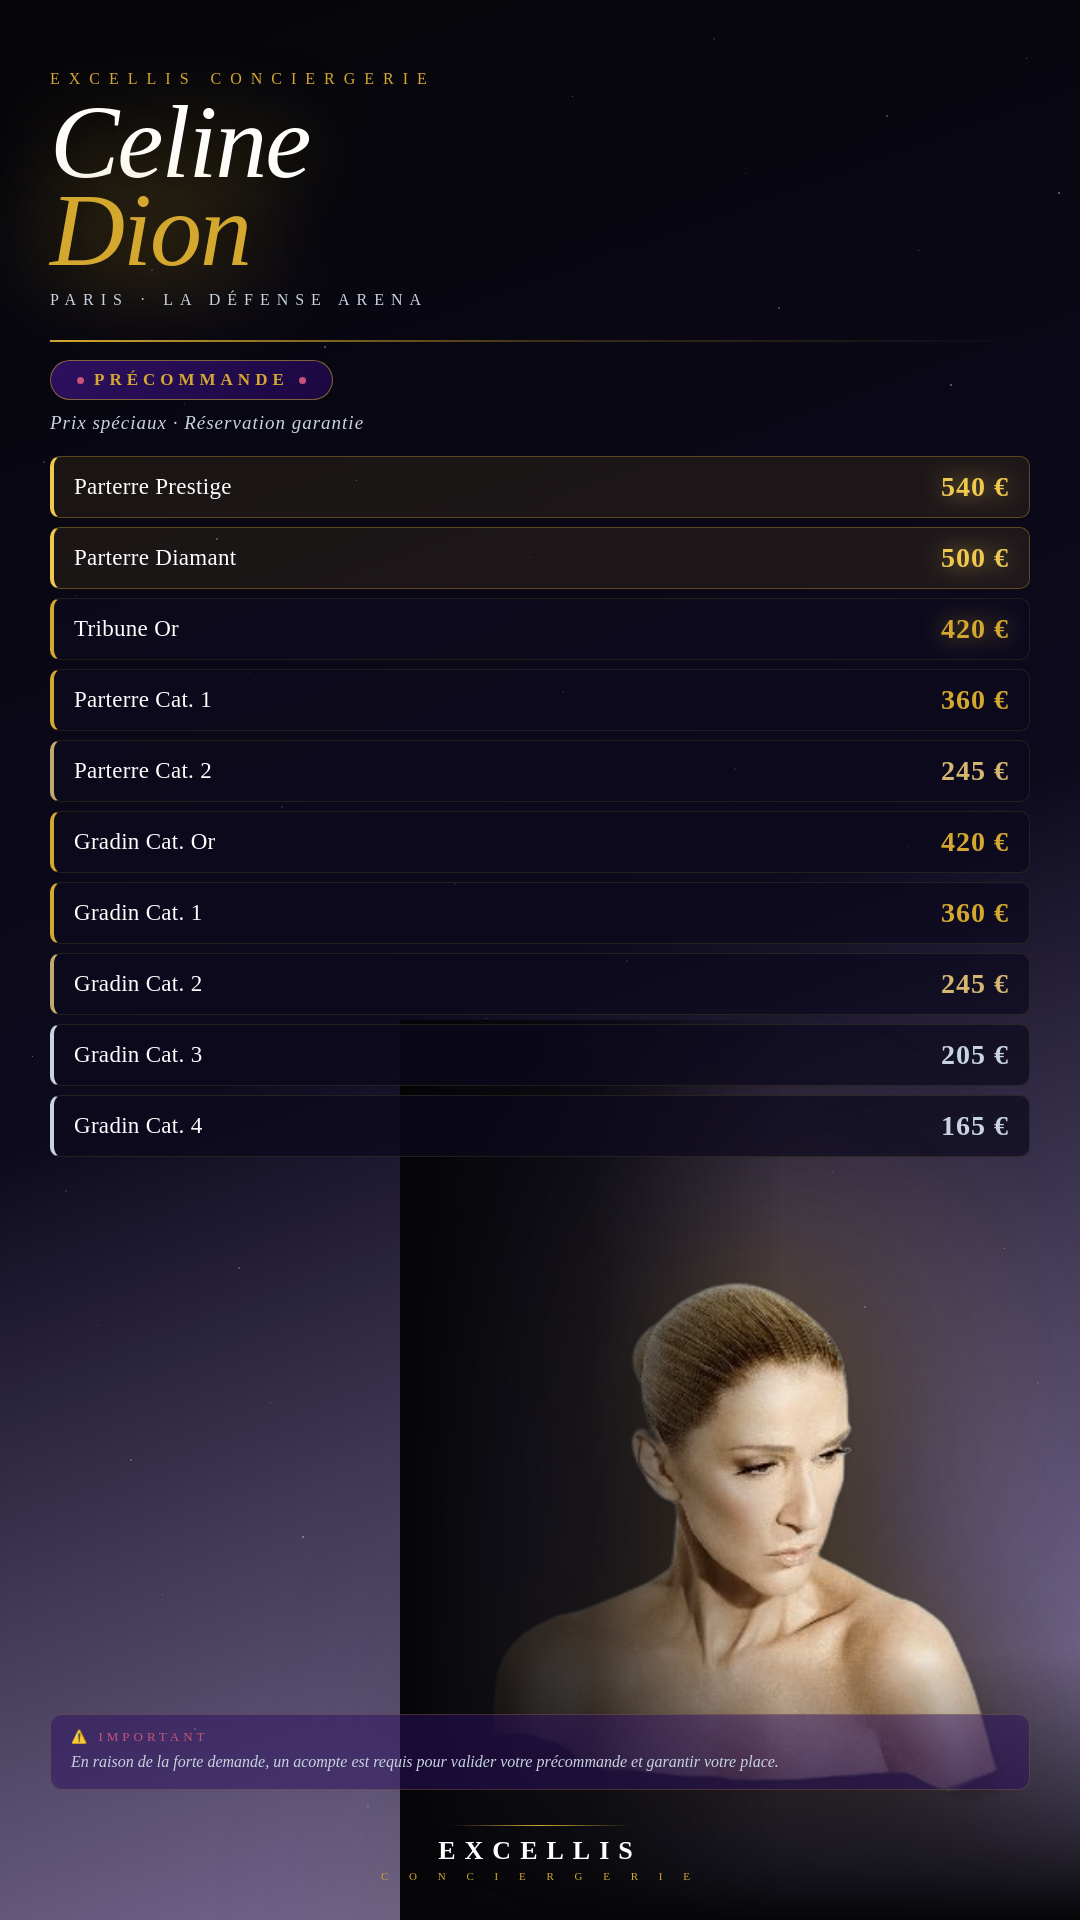
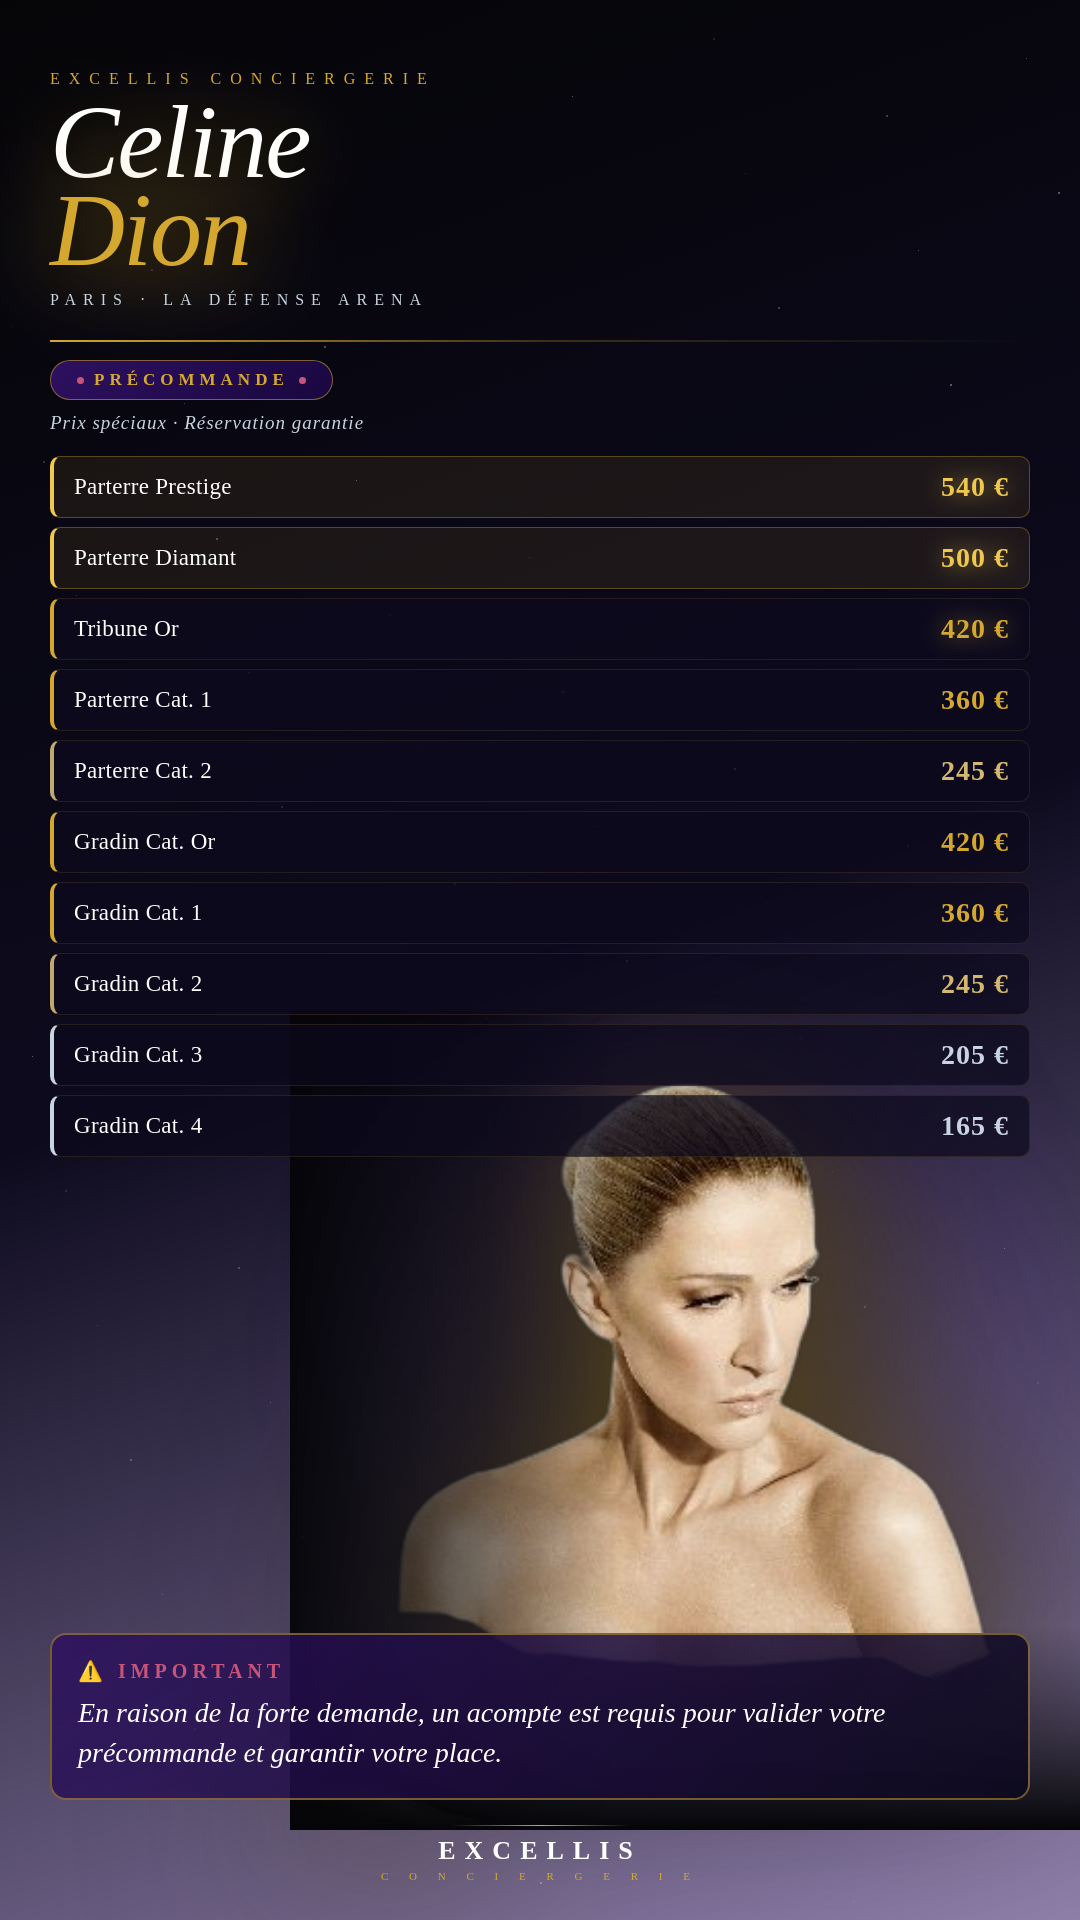
Poster v3: texte IMPORTANT 28px + photo Celine plus grande
https://claude.ai/code/session_014uMGEqSPpnhtawxAyG3qPw

Changed region(s): [[0.0306, 0.5625, 1.0, 1.0]]

diff --git a/src/CelineDionPoster.jsx b/src/CelineDionPoster.jsx
@@ -55,17 +55,17 @@ export const CelineDionPoster = () => (
       background: "conic-gradient(from -18deg at 50% 0%, transparent 0deg, rgba(255,245,200,0.055) 18deg, transparent 36deg)",
     }} />
 
-    {/* ── Photo Céline — droite, pleine hauteur ── */}
+    {/* ── Photo Céline — centrée droite, grande ── */}
     <div style={{
       position: "absolute",
-      bottom: 0, right: -20,
-      width: 700, height: 900,
+      bottom: 90, right: -30,
+      width: 820, height: 820,
       zIndex: 1,
     }}>
       <div style={{
         position: "absolute", inset: -60,
-        background: "radial-gradient(ellipse 60% 50% at 50% 40%, rgba(212,168,47,0.18) 0%, transparent 68%)",
-        filter: "blur(28px)",
+        background: "radial-gradient(ellipse 60% 55% at 50% 42%, rgba(212,168,47,0.22) 0%, rgba(100,50,180,0.10) 55%, transparent 75%)",
+        filter: "blur(32px)",
       }} />
       <img
         src={staticFile("IMG_4446_cutout.png")}
@@ -73,18 +73,18 @@ export const CelineDionPoster = () => (
           position: "absolute", inset: 0,
           width: "100%", height: "100%",
           objectFit: "contain", objectPosition: "center bottom",
-          filter: "drop-shadow(0 0 60px rgba(212,168,47,0.25)) drop-shadow(0 30px 90px rgba(0,0,0,0.95))",
+          filter: "drop-shadow(0 0 80px rgba(212,168,47,0.35)) drop-shadow(0 30px 100px rgba(0,0,0,0.97))",
         }}
       />
       {/* Fondu bas */}
       <div style={{
-        position: "absolute", bottom: 0, left: 0, right: 0, height: "30%",
+        position: "absolute", bottom: 0, left: 0, right: 0, height: "25%",
         background: `linear-gradient(0deg, ${BLACK} 0%, transparent 100%)`, zIndex: 2,
       }} />
-      {/* Fondu gauche pour lisibilité */}
+      {/* Fondu gauche pour lisibilité prix */}
       <div style={{
-        position: "absolute", top: 0, bottom: 0, left: 0, width: "55%",
-        background: `linear-gradient(90deg, ${BLACK} 0%, rgba(5,5,8,0.7) 50%, transparent 100%)`, zIndex: 2,
+        position: "absolute", top: 0, bottom: 0, left: 0, width: "40%",
+        background: `linear-gradient(90deg, rgba(5,5,8,0.95) 0%, rgba(5,5,8,0.5) 60%, transparent 100%)`, zIndex: 2,
       }} />
     </div>
 
@@ -172,14 +172,16 @@ export const CelineDionPoster = () => (
 
     {/* ── Note importante ── */}
     <div style={{
-      position: "absolute", bottom: 130, left: 50, right: 50, zIndex: 4,
-      padding: "14px 20px",
-      background: "rgba(45,16,96,0.5)",
-      border: "1px solid rgba(212,168,47,0.22)",
-      borderRadius: 12,
+      position: "absolute", bottom: 120, left: 50, right: 50, zIndex: 4,
+      padding: "24px 26px",
+      background: `linear-gradient(135deg, rgba(45,16,96,0.82), rgba(13,10,30,0.88))`,
+      border: `2px solid rgba(212,168,47,0.5)`,
+      borderRadius: 16,
     }}>
-      <div style={{ fontSize: 13, color: ROSE, letterSpacing: 4, marginBottom: 5 }}>⚠ IMPORTANT</div>
-      <div style={{ fontSize: 16, color: SILVER, lineHeight: 1.55, fontStyle: "italic" }}>
+      <div style={{ fontSize: 20, color: ROSE, letterSpacing: 5, marginBottom: 10, fontWeight: "bold" }}>
+        ⚠ IMPORTANT
+      </div>
+      <div style={{ fontSize: 28, color: WHITE, lineHeight: 1.45, fontStyle: "italic" }}>
         En raison de la forte demande, un acompte est requis pour valider votre précommande et garantir votre place.
       </div>
     </div>
